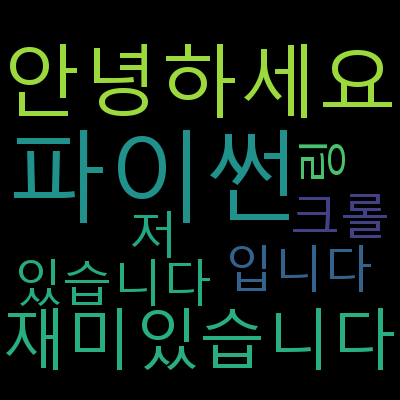
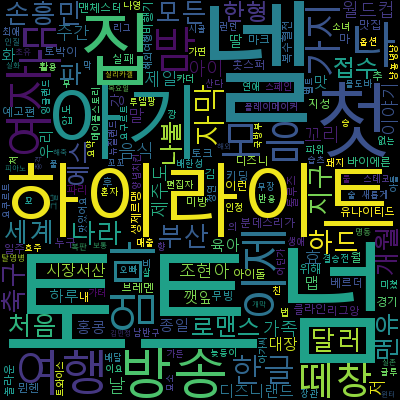
2023-08-22-python-second

diff --git a/13_youtube_crawling/ex02_youtube_hits_extracter.py b/13_youtube_crawling/ex02_youtube_hits_extracter.py
@@ -1,0 +1,95 @@
+# 크롤링 결과 판다스로 저장하기 
+from selenium import webdriver
+from selenium.webdriver.common.by import By
+import time
+import pandas as pd
+from wordcloud import WordCloud
+from konlpy.tag import Okt
+from collections import Counter
+import matplotlib.pyplot as plt
+from konlpy.tag import Okt
+
+
+def scroll_fun():
+    while True:
+        # 스크롤 하기 전 높이 
+        before_scroll = driver.execute_script("return document.documentElement.scrollHeight")
+        # 현재 높이 만큼 스크롤 내리기 
+        driver.execute_script("window.scrollTo(0, document.documentElement.scrollHeight)")
+        time.sleep(2)
+        # 스크롤 내린 후 높이 
+        after_scroll = driver.execute_script("return document.documentElement.scrollHeight")
+        # 스크롤 전, 후 높이 비교 
+        if before_scroll == after_scroll:
+            break
+
+# 브라우저 실행
+driver = webdriver.Chrome()
+# 유튜브 인기급상승 페이지 접속
+driver.get("https://www.youtube.com/feed/trending")
+time.sleep(2)
+
+# 무한 스크롤 함수 호출 
+scroll_fun()
+
+# 제목 요소 가져오기 
+titles = driver.find_elements(By.XPATH, '//*[@id="video-title"]')
+# 제목 저장을 위한 리스트 
+title_list = []
+# 조회수 저장을 위한 리스트 
+hits_list = []
+
+for title in titles:
+    # shorts 영상, YouTube 영화, 제목데이터 없는 컨텐츠 
+    if title.get_attribute("aria-label") and title.text and "YouTube 영화" not in title.get_attribute("aria-label"): 
+        aria_label = title.get_attribute("aria-label")
+        start_index = aria_label.rfind("조회수")+4
+        end_index = aria_label.rfind("회")
+        hits = aria_label[start_index:end_index]
+        # 조회수 값 범위에 따라 분리 
+        # 조회수 없는 영상은 0으로, 조회수가 1000미만인 영상은 , 처리 생략 
+        # 조회수 1,000 이상 영상
+        if "," in hits:
+            hits = int(hits.replace(",",""))
+        # 조회수 없는 영상 
+        elif not hits:
+            hits = 0
+        # 조회수 1,000 미만 
+        else:
+            hits = int(hits)    
+        
+        # 동일한 제목 영상은 한 번만 
+        if title.text not in title_list:
+            title_list.append(title.text)
+            hits_list.append(hits)
+
+# 제목, 조회수 리스트가 담긴 딕셔너리 
+crawling_result = {
+    "title": title_list,
+    "hits": hits_list
+}
+
+okt = Okt()
+def extractText(data):
+    for word, tag in okt.pos(data):
+        if tag in ['Noun', 'Adjective']: 
+            word_list.append(word)
+
+print(len(title_list))
+string_word_list = ""
+word_list = []
+
+for i in title_list:
+    string_word_list+=" "+i
+extractText(string_word_list)
+word_list_count = Counter(word_list)
+wc = WordCloud(font_path='malgun', width=400, height=400)
+result = wc.generate_from_frequencies(word_list_count)
+wc.to_file('wordcould_result.png')
+time.sleep(0.1)
+
+result = pd.DataFrame(crawling_result)
+# dataframe을 csv로 저장
+# result.to_csv("./result.csv", encoding="utf-8-sig")
+# 조회수 내림차순으로 정렬 후 csv로 저장 
+result.sort_values(by=["hits"], ascending=False).to_csv("./result.csv", encoding="utf-8-sig")

diff --git a/13_youtube_crawling/ex01_youtube_pandas.py b/13_youtube_crawling/ex01_youtube_pandas.py
@@ -1,0 +1,39 @@
+# 크롤링 결과 판다스로 저장하기 
+from selenium import webdriver
+from selenium.webdriver.common.by import By
+import time
+import pandas as pd
+
+# 브라우저 실행
+driver = webdriver.Chrome()
+# 유튜브 인기급상승 페이지 접속
+driver.get("https://www.youtube.com/feed/trending")
+time.sleep(2)
+# 제목 요소 가져오기 
+titles = driver.find_elements(By.XPATH, '//*[@id="video-title"]')
+# 제목 저장을 위한 리스트 
+title_list = []
+# 조회수 저장을 위한 리스트 
+hits_list = []
+
+for title in titles:
+    if title.get_attribute("aria-label") and title.text: # shorts 영상을 걸러내기 위한 조건문 
+        aria_label = title.get_attribute("aria-label")
+        start_index = aria_label.rfind("조회수")+4
+        end_index = aria_label.rfind("회")
+        hits = aria_label[start_index:end_index]
+        hits = int(hits.replace(",",""))        
+        title_list.append(title.text)
+        hits_list.append(hits)
+
+# 제목, 조회수 리스트가 담긴 딕셔너리 
+crawling_result = {
+    "title": title_list,
+    "hits": hits_list
+}
+
+result = pd.DataFrame(crawling_result)
+# dataframe을 csv로 저장
+# result.to_csv("./result.csv", encoding="utf-8-sig")
+# 조회수 내림차순으로 정렬 후 csv로 저장 
+result.sort_values(by=["hits"], ascending=False).to_csv("./result.csv", encoding="utf-8-sig")

diff --git a/13_youtube_crawling/wordcloud1.py b/13_youtube_crawling/wordcloud1.py
@@ -1,0 +1,39 @@
+from wordcloud import WordCloud
+from konlpy.tag import Okt
+from collections import Counter
+import matplotlib.pyplot as plt
+
+okt = Okt()
+# text = "안녕하세요. 파이썬 입니다. 저는 파이썬을 배우고 있습니다. 파이썬은 너무나 재미있습니다. 안녕하세요 크롤링 재미있습니다."
+word_list = []
+
+# 명사(Noun), 형용사(Adjective)만 추출한 함수 생성
+def extractText(data):
+    for word, tag in okt.pos(data):
+        if tag in ['Noun', 'Adjective']: 
+            word_list.append(word)
+    
+
+# # 명사(Noun), 형용사(Adjective)만 추출
+# for word, tag in okt.pos(text):
+#     if tag in ['Noun', 'Adjective']: 
+#         word_list.append(word)
+
+# # 같은 단어 노출 빈도 
+# word_list_count = Counter(word_list)
+
+# # 워드클라우드 객체 생성
+wc = WordCloud(font_path='malgun', width=400, height=400)
+
+# # Counter로 분석한 데이터를 워드클라우드로 만들기 
+# result = wc.generate_from_frequencies(word_list_count)
+
+# # matplotlib로 이미지 출력하기 
+# plt.axis('off') # x, y축은 필요없으므로 생략 
+# # 결과를 이미지로 출력할 준비 
+# plt.imshow(result)
+# # 이미지 출력 
+# # plt.show()
+
+# #워드클라우드 파일 저장
+# wc.to_file('wordcould_result.png')

diff --git a/13_youtube_crawling/README.md b/13_youtube_crawling/README.md
@@ -1,0 +1,6 @@
+1. 인기급상승 페이지 접속
+2. 무한스크롤 모든영상 로딩
+3. 모든영상 제목 조회수 데이터 수집
+4. 수집된 제목으로부터 명사 형용사 추출하여 결과를 별도 리스트로 저장
+5. 추출한 명사, 형용사를 가지고 워드클라우드 이미지 생성
+6. 제목, 조회수 데이터는 pandas로 result.csv라는 이름으로 저장(저장시 조회수 기준 내림차순)
